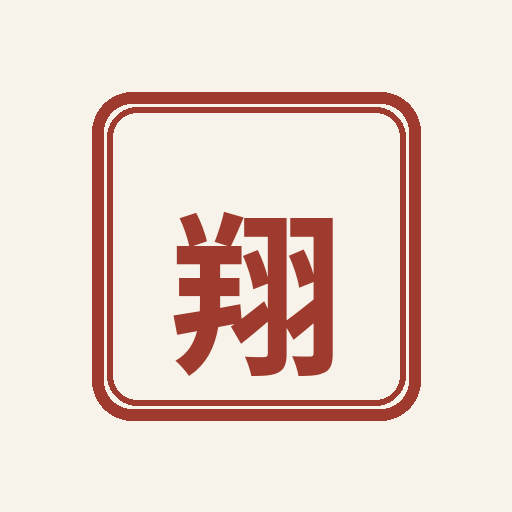
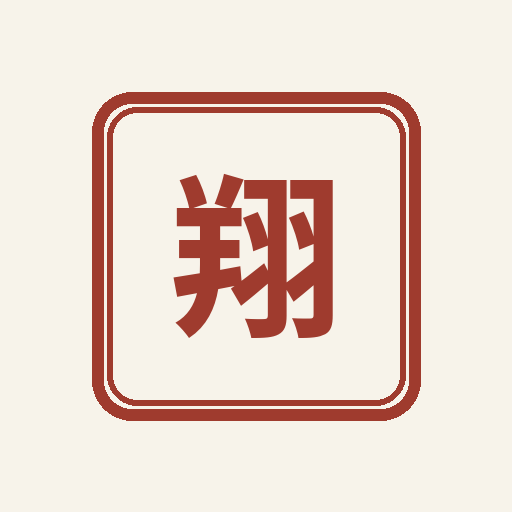
Add files via upload

Changed region(s): [[0.3438, 0.3438, 0.6562, 0.75]]

diff --git a/index.html b/index.html
@@ -100,7 +100,7 @@
         <div class="settings-card about">
           <h2>このアプリについて</h2>
           <p>御翔印の取得状況を端末内に保存して管理するシンプルなアプリです。</p>
-          <p class="muted">Ver. 1.4</p>
+          <p class="muted">Ver. 1.5</p>
         </div>
       </section>
     </main>

diff --git a/service-worker.js b/service-worker.js
@@ -1,4 +1,4 @@
-const CACHE='goshoin-v1-4';
+const CACHE='goshoin-v1-5';
 const ASSETS=['./','./index.html','./style.css','./app.js','./manifest.json','./icon-192.png','./icon-512.png'];
 
 self.addEventListener('install', event => {

diff --git a/README.md b/README.md
@@ -1,4 +1,4 @@
-# 御翔印帳 Ver.1.4
+# 御翔印帳 Ver.1.5
 
 iPhoneのホーム画面に追加して使える、御翔印収集管理用のPWAです。
 
@@ -41,3 +41,7 @@ iPhoneのホーム画面に追加して使える、御翔印収集管理用のPW
 ## Ver.1.4
 - 取得日の登録・表示機能を削除。
 - 取得済みチェックを中心に、よりシンプルな管理画面に変更。
+
+
+## Ver.1.5
+- アプリアイコンの「翔」を中央配置に修正。
